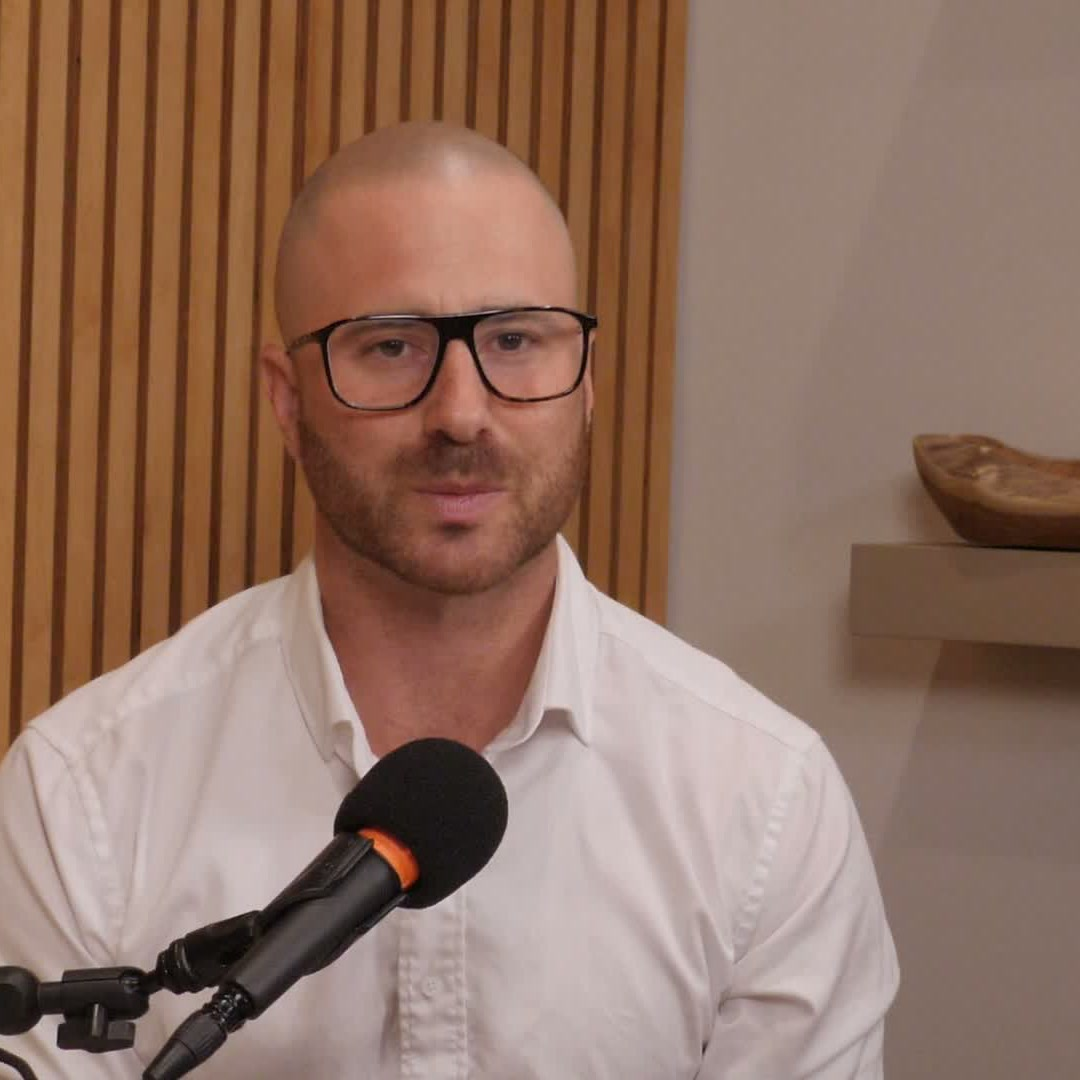
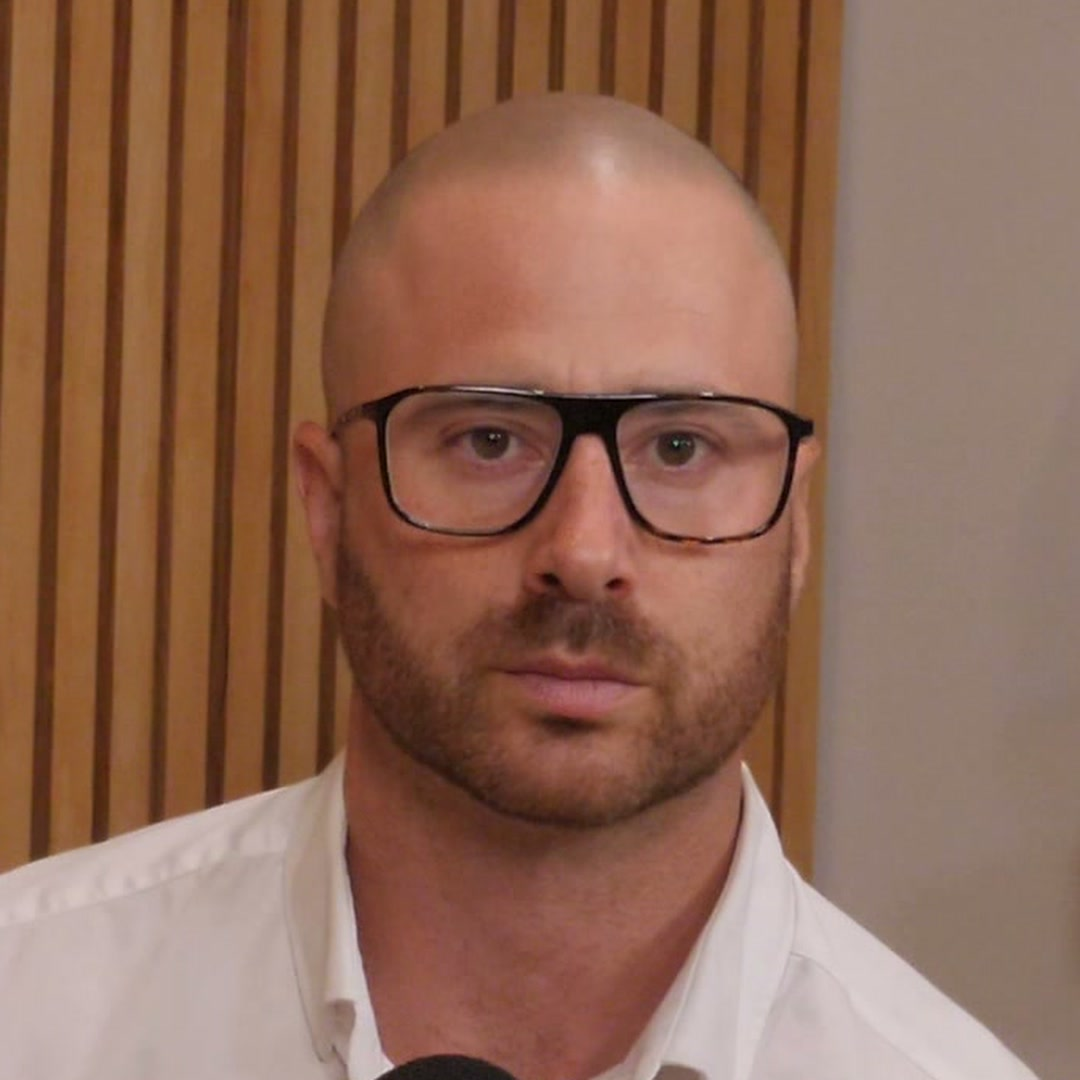
About: poster = exact supplied headshot, 1:1 close-up matched to video face proportion
Replaces founder-why.jpg with the exact photo Zachary supplied
(headshotinstudio.jpg), cropped 1:1 (crop 687 @user,68 -> 1080) so the
face size/position matches the video's opening direct-angle frame —
seamless still->play. Poster cache-bust ?v=20260520 (mp4 unchanged).

diff --git a/website/about/index.html b/website/about/index.html
@@ -120,7 +120,7 @@
       <div class="founder-portrait">
         <div class="founder-video-wrap">
           <video class="founder-video" preload="none" playsinline
-                 poster="/assets/founder-why.jpg?v=20260519"
+                 poster="/assets/founder-why.jpg?v=20260520"
                  src="/assets/founder-why.mp4?v=20260519"></video>
           <button type="button" class="video-play" aria-label="Play video: Why I started Aplomb">
             <span class="video-play-ico" aria-hidden="true"></span>